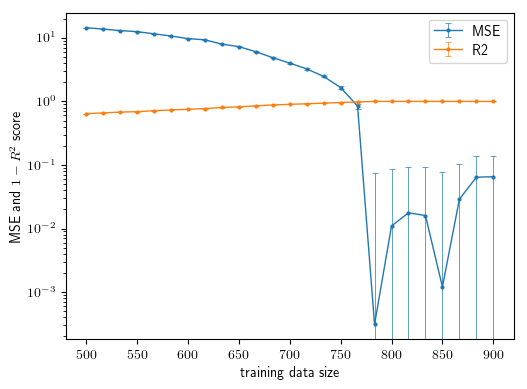
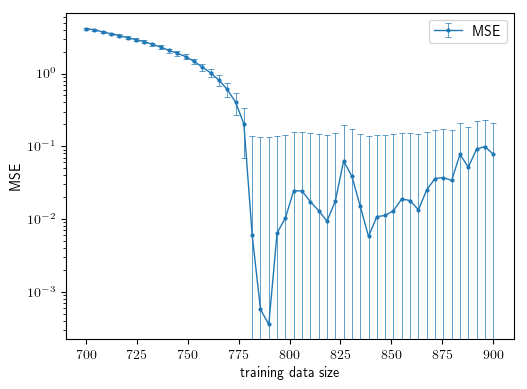
Working on cross-validation to compute bias/variance for ising 1D models

diff --git a/project2/part_b.py b/project2/part_b.py
@@ -30,11 +30,11 @@ def setup(L = 40, N = 1000, train = 0.4) :
     X_test  = X_total[N_train:N_train+N_test]
     y_test  = y_total[N_train:N_train+N_test]
     
-    return ising, ols, ridge, lasso, X_train, X_test, y_train, y_test    
+    return ising, ols, ridge, lasso, X_train, X_test, y_train, y_test, X_total, y_total   
 
 
 def MSE_R2_as_function_of_lambda(L = 40, N = 1000, train=0.4, plotting=False) :
-    _, ols, ridge, lasso, X_train, X_test, y_train, y_test = setup(L,N,train)
+    _, ols, ridge, lasso, X_train, X_test, y_train, y_test, _, _ = setup(L,N,train)
 
     ols.fit(X_train, y_train)
     ols.predict(X_test)
@@ -102,7 +102,7 @@ def MSE_R2_as_function_of_lambda(L = 40, N = 1000, train=0.4, plotting=False) :
 
 
 def MSE_R2_as_function_of_training_set_size(L=40, N=1500, M=25, plotting=False) :
-    K            = 100
+    K            = 500
     train        = np.linspace(700, 900, M)
     train       /= N
     MSE          = np.zeros((M,K))
@@ -123,7 +123,7 @@ def MSE_R2_as_function_of_training_set_size(L=40, N=1500, M=25, plotting=False) 
             np.random.seed(1955*k + 29*it)
             np.random.seed()
             t = train[k]
-            _, ols, _, _, X_train, X_test, y_train, y_test = setup(L, N, t)
+            _, ols, _, _, X_train, X_test, y_train, y_test, _, _ = setup(L, N, t)
             beta = ols.fit(X_train, y_train)
             ols.predict(X_test)
             ols.y = y_test
@@ -165,7 +165,7 @@ def MSE_R2_as_function_of_training_set_size(L=40, N=1500, M=25, plotting=False) 
                         capsize     = 2,
                         capthick    = 0.5,
                         label       = r"MSE")
-        plt.errorbar(train*N, R2[:,0], 
+        """plt.errorbar(train*N, R2[:,0], 
                         yerr        = np.sqrt(R2_variance), 
                         fmt         = '-o',
                         markersize  = 2,
@@ -174,13 +174,49 @@ def MSE_R2_as_function_of_training_set_size(L=40, N=1500, M=25, plotting=False) 
                         capsize     = 2,
                         capthick    = 0.5,
                         label       = r"R2")
+        """
         plt.gcf().axes[0].set_yscale("log")
         plt.legend(fontsize=10)
         plt.xlabel(r'training data size',    fontsize=10)
-        plt.ylabel(r'MSE and $1-R^2$ score', fontsize=10)
+        plt.ylabel(r'MSE',                   fontsize=10)
         plt.subplots_adjust(left=0.2,bottom=0.2)
-        plt.savefig(os.path.join(os.path.dirname(__file__), 'figures', 'MSE_R2_training_size_ols.png'), transparent=True, bbox_inches='tight')
+        #plt.savefig(os.path.join(os.path.dirname(__file__), 'figures', 'MSE_R2_training_size_ols.png'), transparent=True, bbox_inches='tight')
         plt.show()
+
+
+def cross_validation(L = 40, N = 1000, k=10, plotting=False) :
+    N = N-N%k
+    N_fold = N // k
+    N = N*(k+1)//k
+    _, ols, ridge, lasso, _, _, _, _, X, y = setup(L=L, N=N, train=0.5)
+    _, _, _, _, _, _, _, _, X_test, y_test = setup(L=L, N=N, train=0.5)
+    
+    y_predict = np.empty((N,k))
+
+    for fold in range(k) :
+        mask = np.array([False]*N)
+        mask[fold*N_fold:(fold+1)*N_fold] = True
+        X_fold = X[mask,:]
+        y_fold = y[mask]
+        X_train = X[np.invert(mask),:]
+        y_train = y[np.invert(mask)]
+
+        beta = ols.fit(X_train, y_train)
+        y_predict[:,fold] = np.dot(X_test, beta)
+
+        y_test = np.reshape(y_test, (y_test.shape[0],1))
+
+    MSE = np.mean( np.mean((y_test - y_predict)**2, axis=1, keepdims=True) )
+    bias = np.mean( (y_test - np.mean(y_predict, axis=1, keepdims=True))**2 )
+    variance = np.mean( np.var(y_predict, axis=1, keepdims=True) )
+
+    print(MSE)
+    print(bias)
+    print(variance)
+    print(np.abs((bias+variance) - MSE))
+
+        
+
 
 
 if __name__ == '__main__':
@@ -188,7 +224,11 @@ if __name__ == '__main__':
     #MSE_R2_as_function_of_lambda(L=40, N=1000, train=0.2, plotting=True)
 
     np.random.seed(2019)
-    MSE_R2_as_function_of_training_set_size(L=40, N=1500, M=25, plotting=True)
+    #MSE_R2_as_function_of_training_set_size(L=40, N=1500, M=50, plotting=True)
+
+    np.random.seed(2020)
+    cross_validation(L=15, N=103, k=10, plotting=True)
+
 
 
 

diff --git a/project1/src/BootstrapFranke.py b/project1/src/BootstrapFranke.py
@@ -20,7 +20,7 @@ from franke import franke
 
 np.random.seed(2018)
 
-@jit(nopython=True, cache=True)
+#@jit(nopython=True, cache=True)
 def computeFrankeValues(x_data, y, noise_strength=0.1) :    
 	N = x_data.shape[0]
 	for i in range(N) :
@@ -91,6 +91,12 @@ for degree in Degree:
     
 	y_test = y_test.reshape(len(y_test),1)
 	
+	print(y_test.shape)
+	
+	print(y_pred.shape)
+
+	sgkgsgks
+
 	MSE = np.mean( np.mean((y_test - y_pred)**2, axis=1, keepdims=True) )
 	bias = np.mean( (y_test - np.mean(y_pred, axis=1, keepdims=True))**2 )
 	variance = np.mean( np.var(y_pred, axis=1, keepdims=True) )

diff --git a/project1/src/designMatrix.py b/project1/src/designMatrix.py
@@ -2,7 +2,7 @@ import numpy as np
 from numba import jit
 
 
-@jit(nopython=True, cache=True)
+#@jit(nopython=True, cache=True)
 def computeMatrix(matrix, x, degree) :
     ind = 1
     for i in range(1,degree+1) :

diff --git a/project1/src/franke.py b/project1/src/franke.py
@@ -1,7 +1,7 @@
 import numpy as np
 from numba import jit
 
-@jit(nopython=True)
+#@jit(nopython=True)
 def franke(x, y) :
     """Computes the Franke function
     
